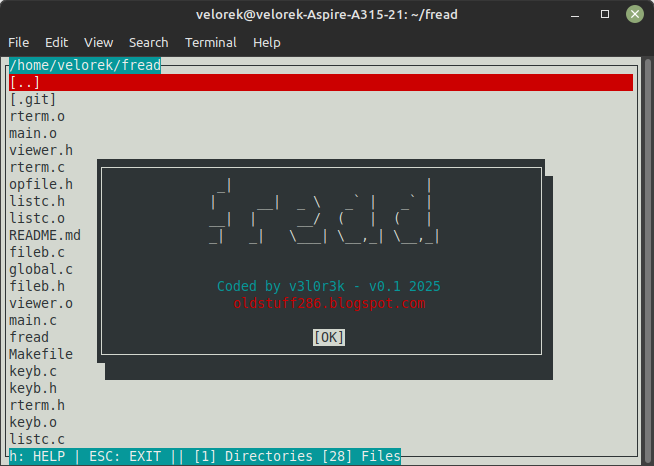
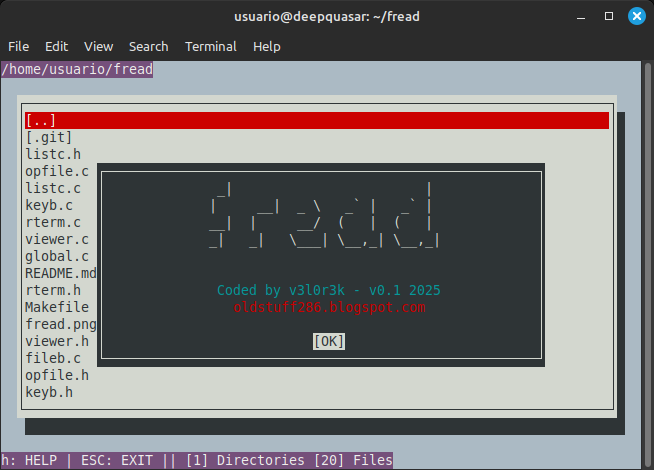
New color scheme

diff --git a/opfile.c b/opfile.c
@@ -143,20 +143,25 @@ char path[MAXFILENAME];
 char bit[MAXFILENAME];
 char ndirstr[255];
 size_t i=0;
+int j=0, k=0;
 int retvalue=0;
 char currentPath[4] = "./\0";
     retvalue =0;
-    setselectorLimit(new_columns-2);
+    setselectorLimit(new_columns-7);
     old_rows = new_rows;
     old_columns = new_columns; 
    do{
-      draw_window(0, 0, new_columns, new_rows, bcol,fcol, B_WHITE,1,0,0);
+    //unicode bluw-white background, dos-ansi style
+    for (k=0; k<new_columns;k++)
+	 for(j=0;j<new_rows;j++)
+       write_ch(k,j,0x2591,B_WHITE,F_BLUE);
+      draw_window(2, 2, new_columns-4, new_rows-4, bcol,fcol, bcol,1,0,1);
       listFiles(&listBox1,currentPath);
       sprintf(ndirstr, "h: HELP | ESC: EXIT || [%d] Directories [%d] Files", ndirs, nfiles);
       getcwd(path, sizeof(path));	  
-      write_str(1,new_rows,ndirstr,titleB,titleF);
-      write_str(1,0,path,titleB,titleF);
-      ch = listBox(listBox1, 2,2, &scrollData, bcol, fcol,B_BLACK, FH_WHITE, new_rows-2, VERTICAL,1,LOCKED);
+      write_str(0,new_rows,ndirstr,titleB,titleF);
+      write_str(0,0,path,titleB,titleF);
+      ch = listBox(listBox1, 4,4, &scrollData, bcol, fcol,B_BLACK, FH_WHITE, new_rows-7, VERTICAL,1,LOCKED);
       //if (_animation() == -1) {ch=K_ESCAPE; break;} 
       if (ch == 0x27) {break;} 
       if (ch == K_TAB) {break;} 

diff --git a/global.c b/global.c
@@ -131,7 +131,7 @@ void aboutmsg(){
 	int i = 0;
 	draw_window((new_columns / 2) - 28, (new_rows / 2) - 6,
 	       (new_columns / 2) + 27, (new_rows) / 2 + 5, B_BLACK, F_WHITE,
-	       B_WHITE, 1, 0, 1);
+	       B_WHITE, 1, 0, 0);
 	for (i = 0; i < 4; i++) {
 		write_str((new_columns / 2) - 15,
 			  (new_rows / 2) - 5 + i, aboutMSG[i], B_BLACK,
@@ -155,7 +155,7 @@ int displayAbout(void)
         srand(time(NULL));  
 	draw_window((new_columns / 2) - 28, (new_rows / 2) - 6,
 	       (new_columns / 2) + 27, (new_rows) / 2 + 5, B_BLACK, F_WHITE,
-	       B_WHITE, 1, 0, 1);
+	       B_WHITE, 1, 0, 0);
 	
 	do {
           if (kbhit(7))

diff --git a/main.c b/main.c
@@ -50,7 +50,7 @@ int main(int argc, char *argv[]){
 	 if (scrollData.lastch == K_SPACE) {ch=displayColorKey(); if (ch == K_ESCAPE) {scrollData.lastch = 0;}}
 	 if (scrollData.lastch == K_TAB) {
 		    strcpy(csearch,"\0");
-	            textbox(1, new_rows-1, 45,"File:", csearch, B_BLACK, F_WHITE, F_WHITE, 1);
+	            textbox(0, new_rows-1, 45,"File:", csearch, B_BLACK, F_WHITE, F_WHITE, 1);
 		    if (strlen(csearch)>1 && file_exists(csearch)) {
 			strcpy(fileName,csearch);
 			viewFile(fileName);

diff --git a/global.h b/global.h
@@ -28,9 +28,9 @@
 //COLOR PALETTE 2
 #define BACKGROUNDCOLOR B_WHITE
 #define FOREGROUNDCOLOR F_BLACK
-#define TITLEBCOLOR B_CYAN
+#define TITLEBCOLOR B_MAGENTA
 #define TITLEFCOLOR FH_WHITE
-#define WINDOWBCOLOR B_CYAN
+#define WINDOWBCOLOR B_YELLOW
 #define WINDOWFCOLOR FH_WHITE
 #define SELECTORB B_WHITE
 #define SELECTORF F_BLACK
